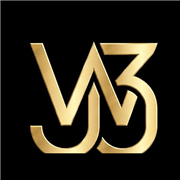
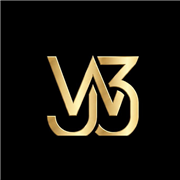
Piu margine nell emblema quadrato: iOS lo tagliava con l angolo arrotondato

Changed region(s): [[0.1667, 0.2222, 0.8889, 0.8611]]

diff --git a/index.html b/index.html
@@ -5,7 +5,7 @@
 <meta name="viewport" content="width=device-width, initial-scale=1, viewport-fit=cover">
 <title>Neotek</title>
 <link rel="icon" href="icon-32.png">
-<link rel="apple-touch-icon" href="icon-180.png?v=3">
+<link rel="apple-touch-icon" href="icon-180.png?v=4">
 <link rel="manifest" href="manifest.json">
 <meta name="apple-mobile-web-app-capable" content="yes">
 <meta name="apple-mobile-web-app-status-bar-style" content="black-translucent">
